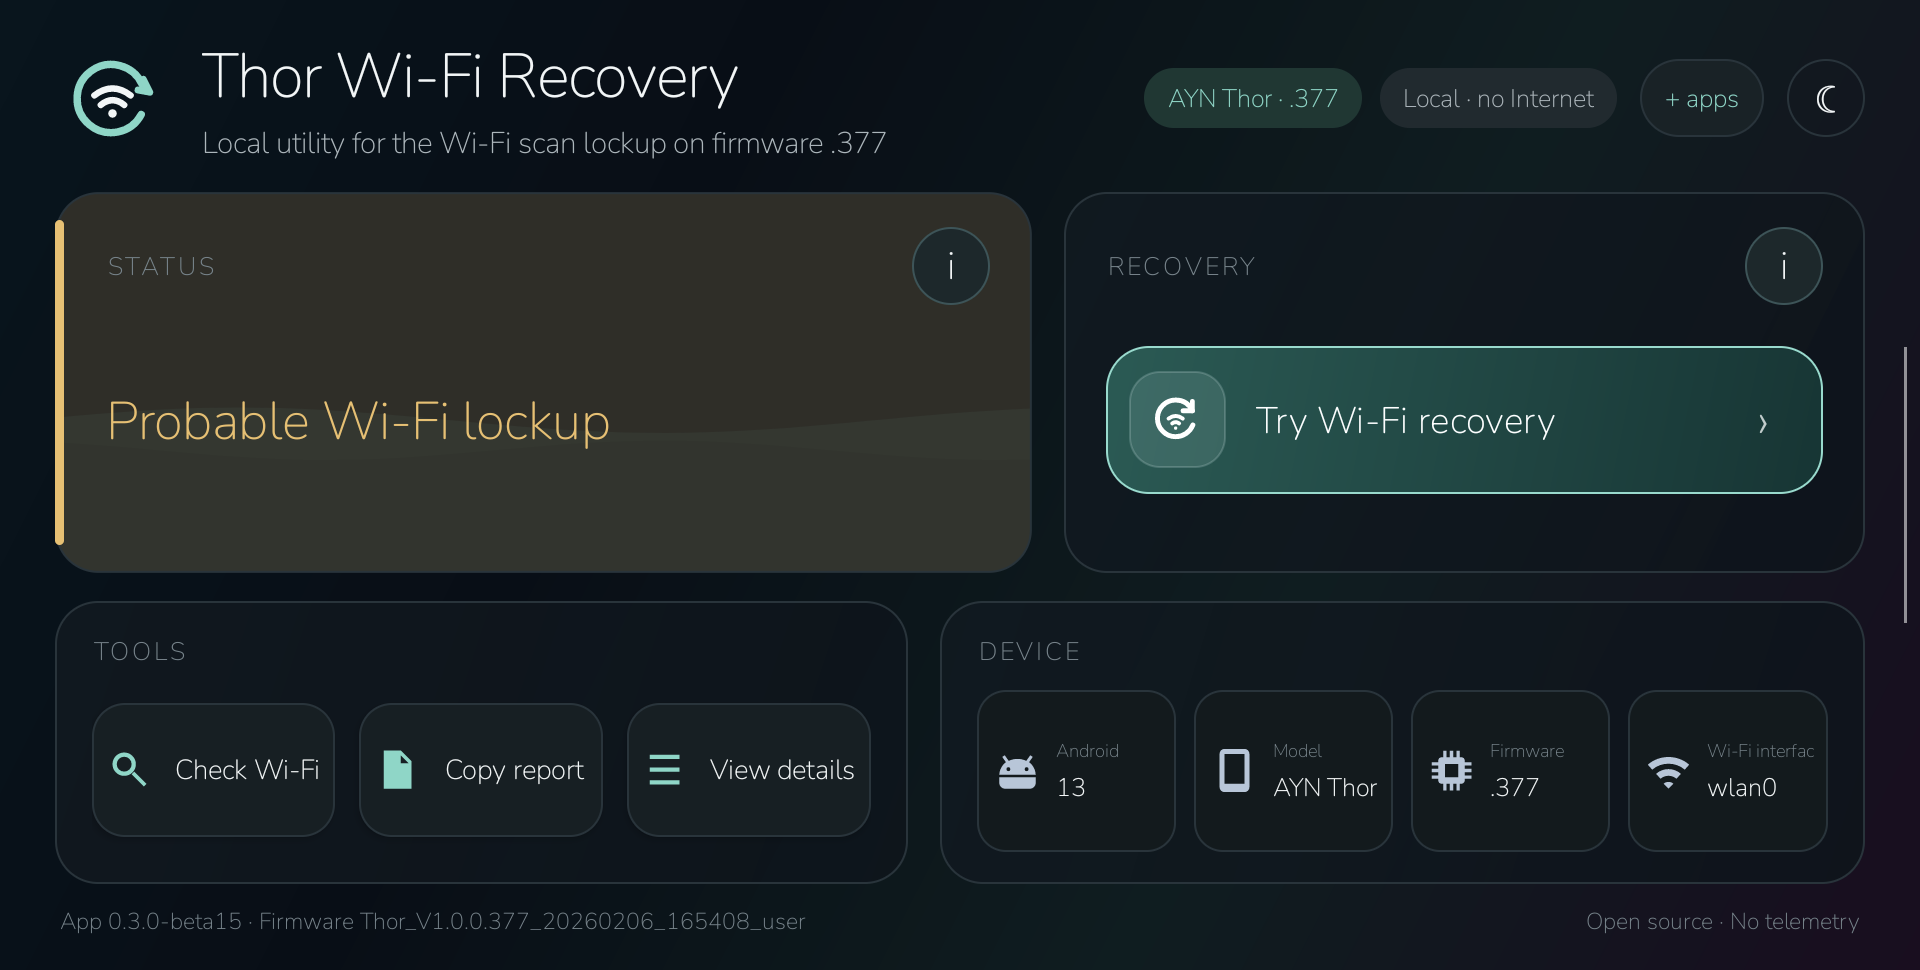
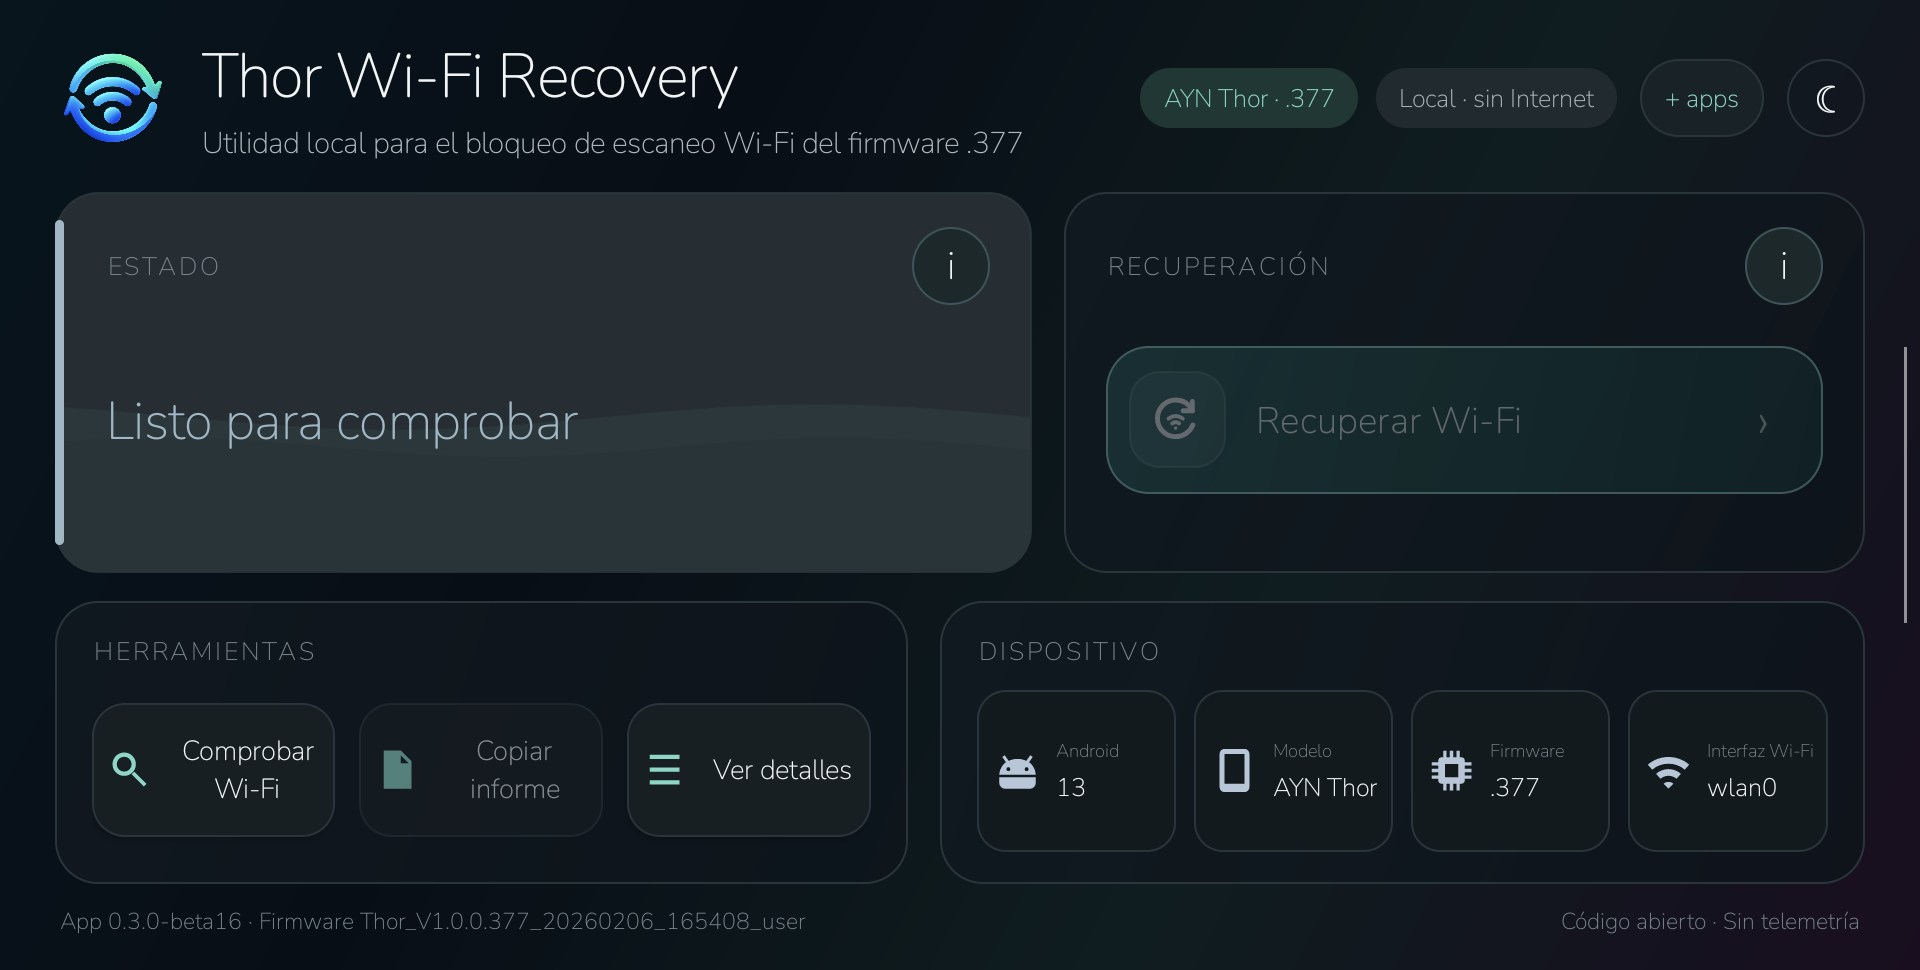
Refresh beta16 screenshots and social preview

diff --git a/README.md b/README.md
@@ -24,7 +24,7 @@ The app deliberately fails closed on unvalidated firmware.
 
 Current development build on `main`: **0.3.0-beta16**
 
-Latest signed public prerelease: **0.3.0-beta15**
+Latest signed public prerelease: **0.3.0-beta16**
 
 [Download the latest signed prerelease](https://github.com/JoelMomo/AYN-Thor-WiFi-Recovery/releases)
 
